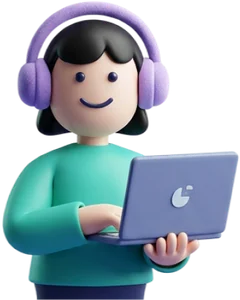
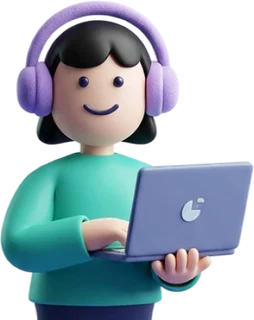
Prepare the review round: plan, source build, character crops
- Plan: reel in the hero, a 3 x 3 grid of the latest productions with
  an overlay, departments before founders.
- prototype/src/build.py builds prototype/index.html from sources in
  prototype/src (the sources follow in the next commit) and picks up
  the reel and project media from prototype/media.
- Department characters are cropped flat at the waist so they can sit
  behind the department cards.

Claude-Session: https://claude.ai/code/session_01TX8yyNLqken41SDcs6H1nx

diff --git a/prototype/src/build.py b/prototype/src/build.py
@@ -1,0 +1,187 @@
+"""Build the Humanverse v3 prototype into a single HTML page.
+
+Edit the sources in this folder, then run from the repository root:
+
+    python3 prototype/src/build.py
+
+That writes prototype/index.html (Polish by default, English in the language switch).
+
+- body.html: page markup with the English copy; every translatable element has a data-i18n key.
+- pl.json: Polish for the same keys. extra-en.json: English strings used only from JavaScript.
+- work.json: the nine projects in the "Work" grid, one entry per project, in display order.
+- prototype/media/: reel.mp4, and per project work/<id>-loop.mp4 (or .gif) and work/<id>-film.mp4.
+  Missing files show a placeholder.
+- Photos of people are not in the repository. Pass --photos with a JSON file that maps photo keys
+  (team, kujawski, ...) to image files, together with --out pointing outside the repository.
+"""
+import argparse, html, json, os, re, shutil, sys
+
+SRC = os.path.dirname(os.path.abspath(__file__))
+PROTO = os.path.dirname(SRC)
+ASSETS = os.path.join(SRC, 'assets')
+
+ap = argparse.ArgumentParser(description=__doc__.split('\n')[0])
+ap.add_argument('--out', default=PROTO, help='output folder (default: prototype/)')
+ap.add_argument('--photos', help='JSON file that maps photo keys to image files')
+ap.add_argument('--fragment', action='store_true',
+                help='also write humanverse-v3.html without html/head/body tags, and files.json')
+args = ap.parse_args()
+OUT = os.path.abspath(args.out)
+IN_REPO = OUT == PROTO
+if args.photos and IN_REPO:
+    sys.exit('Photos of people stay out of the repository: pass --out with a folder outside it.')
+if not IN_REPO:
+    for sub in ('img', 'media'):
+        shutil.rmtree(os.path.join(OUT, sub), ignore_errors=True)
+os.makedirs(os.path.join(OUT, 'img'), exist_ok=True)
+
+read = lambda p: open(os.path.join(SRC, p), encoding='utf-8').read()
+body = read('body.html')
+css = read('styles.css')
+engine = read('engine.js')
+app = read('app.js')
+work_js = read('work.js')
+work = json.loads(read('work.json'))
+extra_en = json.loads(read('extra-en.json'))
+
+used_files = {}
+def ship(rel):
+    """Return rel if prototype/<rel> exists, copying it into the output when building elsewhere."""
+    src = os.path.join(PROTO, rel)
+    if not os.path.exists(src):
+        return ''
+    dst = os.path.join(OUT, rel)
+    if not IN_REPO:
+        os.makedirs(os.path.dirname(dst), exist_ok=True)
+        shutil.copy(src, dst)
+    used_files[rel] = dst
+    return rel
+
+# ---- 1. reel and work grid from work.json ----
+reel = ship(work['reel'])
+body = body.replace('%%REEL%%', (f'<video class="reel-video" src="{reel}" muted autoplay loop playsinline preload="auto" '
+                                 'data-i18n-attr="aria-label:reel.aria" aria-label="Humanverse showreel"></video>') if reel else '', 1)
+esc = lambda t: html.escape(t, quote=False)
+items, work_pl = [], {}
+for pr in work['projects']:
+    i = pr['id']
+    loop = next((r for r in (f'media/work/{i}-loop.{e}' for e in ('mp4', 'webm', 'gif')) if ship(r)), '')
+    film = next((r for r in (f'media/work/{i}-film.{e}' for e in ('mp4', 'webm')) if ship(r)), '')
+    if loop.endswith('.gif'):
+        m = f'<img class="work-loop" src="{loop}" alt="" loading="lazy" decoding="async">'
+    elif loop:
+        m = f'<video class="work-loop" src="{loop}" muted autoplay loop playsinline preload="metadata" aria-hidden="true" tabindex="-1"></video>'
+    else:
+        m = f'<span class="work-slate" aria-hidden="true"><b>{i}</b><small data-i18n="work.slate">Loop · 3 s</small></span>'
+    items.append(f'''      <li class="work-item">
+        <button class="work-tile" type="button" aria-haspopup="dialog" data-id="{i}" data-loop="{loop}" data-film="{film}">
+          <span class="work-media">{m}</span>
+          <span class="work-cap"><span class="work-title" data-i18n="work.{i}.t">{esc(pr['title']['en'])}</span><span class="work-sub" data-i18n="work.{i}.s">{esc(pr['sub']['en'])}</span></span>
+        </button>
+        <p class="work-desc" data-i18n="work.{i}.d" hidden>{esc(pr['desc']['en'])}</p>
+      </li>''')
+    work_pl.update({f'work.{i}.t': esc(pr['title']['pl']), f'work.{i}.s': esc(pr['sub']['pl']), f'work.{i}.d': esc(pr['desc']['pl'])})
+body = body.replace('%%WORK_GRID%%', '<ul class="work-grid" role="list">\n' + '\n'.join(items) + '\n      </ul>', 1)
+
+# ---- 2. English strings straight from the markup ----
+EL = re.compile(r'<(?P<tag>[a-z0-9]+)(?P<attrs>[^>]*?\sdata-i18n="(?P<key>[^"]+)"[^>]*)>(?P<inner>.*?)</(?P=tag)>', re.S)
+ATTR = re.compile(r'<[a-z0-9]+[^>]*\sdata-i18n-attr="(?P<spec>[^"]+)"[^>]*>', re.S)
+en = {}
+for m in EL.finditer(body):
+    k, v = m.group('key'), m.group('inner').strip()
+    if k in en and en[k] != v:
+        sys.exit(f'duplicate key with different text: {k}')
+    en[k] = v
+for m in ATTR.finditer(body):
+    tag = m.group(0)
+    for pair in m.group('spec').split(';'):
+        attr, key = pair.split(':', 1)
+        am = re.search(r'\s' + re.escape(attr) + r'="([^"]*)"', tag)
+        if am and key not in en:
+            en[key] = am.group(1)
+for k, v in extra_en.items():
+    en.setdefault(k, v)
+pl = json.loads(read('pl.json'))
+pl.update(work_pl)
+missing = [k for k in en if k not in pl]
+print('strings:', len(en), '| missing in pl.json:', missing[:20], len(missing))
+
+# ---- 3. inline the default language (Polish when complete) ----
+default = 'en' if missing else 'pl'
+D = pl if default == 'pl' else en
+def sub_el(m):
+    v = D.get(m.group('key'))
+    return m.group(0) if v is None else '<' + m.group('tag') + m.group('attrs') + '>' + v + '</' + m.group('tag') + '>'
+page_body = EL.sub(sub_el, body)
+def sub_attr(m):
+    tag = m.group(0)
+    for pair in m.group('spec').split(';'):
+        attr, key = pair.split(':', 1)
+        if key in D:
+            tag = re.sub(r'(\s' + re.escape(attr) + r'=")[^"]*(")', lambda mm: mm.group(1) + D[key].replace('"', '&quot;') + mm.group(2), tag)
+    return tag
+page_body = ATTR.sub(sub_attr, page_body)
+
+# ---- 4. logos ----
+uid = [0]
+def svg(name, cls='', fills=None, label=None):
+    s = open(os.path.join(ASSETS, name), encoding='utf-8').read().strip()
+    uid[0] += 1
+    s = re.sub(r'clip0_[0-9_]+', f'clip{uid[0]}', s)
+    s = re.sub(r'\s(width|height)="[0-9.]+"', '', s, count=2)
+    for a, b in (fills or {}).items():
+        s = s.replace(f'fill="{a}"', f'fill="{b}"')
+    attrs = (f' class="{cls}"' if cls else '') + (f' role="img" aria-label="{label}"' if label else ' aria-hidden="true" focusable="false"')
+    return s.replace('<svg', '<svg' + attrs, 1)
+
+hv_nav = svg('logo-humanverse.svg', 'wordmark', {'white': 'currentColor'}, 'Humanverse')
+page_body = page_body.replace('<a class="brand" href="#top" aria-label="Humanverse">%%WORDMARK%%</a>', '<a class="brand" href="#top">' + hv_nav + '</a>', 1)
+while '%%WORDMARK%%' in page_body:
+    page_body = page_body.replace('%%WORDMARK%%', svg('logo-humanverse.svg'), 1)
+page_body = page_body.replace('%%JEDEN%%', svg('logo-jeden.svg', 'brand-logo', {'white': '#0D0C12'}, 'jeden.ai'))
+page_body = page_body.replace('%%ALTERCAST%%', svg('logo-altercast-big.svg', 'ac-logo', None, 'AlterCast'))
+page_body = page_body.replace('%%HVLOGO%%', svg('logo-humanverse.svg', '', None, 'Humanverse'))
+page_body = page_body.replace('%%JEDEN_FOOT%%', svg('logo-jeden.svg', '', None, 'jeden.ai'))
+
+# ---- 5. photos and characters ----
+photos = {}
+if args.photos:
+    base = os.path.dirname(os.path.abspath(args.photos))
+    photos = {k: os.path.join(base, v) for k, v in json.load(open(args.photos, encoding='utf-8')).items()}
+NAMES = {'kujawski': 'Krzysztof Kujawski', 'mazurkiewicz': 'Paweł Mazurkiewicz', 'czajkowski': 'Jarosław Czajkowski',
+         'jonski': 'Daniel Joński', 'tyszkiewicz': 'Jan Tyszkiewicz', 'domagala': 'Monika Domagała-Szmidt',
+         'dluzniewska': 'Paulina Dłużniewska', 'polanska': 'Iwona Polańska', 'soszynski': 'Piotr Soszyński',
+         'trosinska': 'Ela Trosińska', 'grabarczyk': 'Bartosz Grabarczyk'}
+def img_tag(key):
+    src = photos.get(key)
+    if not src or not os.path.exists(src):
+        return ''
+    dst = f'img/{key}{os.path.splitext(src)[1]}'
+    shutil.copy(src, os.path.join(OUT, dst))
+    used_files[dst] = os.path.join(OUT, dst)
+    alt = D.get('team.alt', 'The Humanverse team') if key == 'team' else NAMES.get(key, '')
+    return f'<img src="{dst}" alt="{alt}" loading="lazy" decoding="async">'
+page_body = re.sub(r'%%IMG:([a-z-]+)%%', lambda m: img_tag(m.group(1)), page_body)
+def char_tag(key):
+    rel = ship(f'img/char-{key}.webp')
+    return f'<img src="{rel}" alt="" loading="lazy" decoding="async">' if rel else ''
+page_body = re.sub(r'%%CHAR:([a-z-]+)%%', lambda m: char_tag(m.group(1)), page_body)
+assert '%%' not in page_body, re.findall(r'%%[^%]+%%', page_body)
+
+# ---- 6. assemble ----
+i18n = {'pl': pl, 'en': en}
+head = ('<title>Humanverse v3</title>\n'
+        '<link rel="preconnect" href="https://fonts.googleapis.com">\n'
+        '<link rel="preconnect" href="https://fonts.gstatic.com" crossorigin>\n'
+        '<link rel="stylesheet" href="https://fonts.googleapis.com/css2?family=Barlow+Condensed:ital,wght@0,300;0,500;0,700;0,800;1,300&family=Space+Grotesk:wght@400;500;700&display=swap">\n'
+        '<style>\n' + css + '</style>\n')
+scripts = ('<script>window.HV_I18N = ' + json.dumps(i18n, ensure_ascii=False).replace('</', '<\\/') + ';</script>\n'
+           '<script>\n' + app + '</script>\n<script>\n' + work_js + '</script>\n<script>\n' + engine + '</script>\n')
+standalone = ('<!doctype html>\n<html lang="' + default + '">\n<head>\n<meta charset="utf-8">\n'
+              '<meta name="viewport" content="width=device-width, initial-scale=1, viewport-fit=cover">\n' + head +
+              '</head>\n<body>\n' + page_body + '\n' + scripts + '</body>\n</html>\n')
+open(os.path.join(OUT, 'index.html'), 'w', encoding='utf-8').write(standalone)
+if args.fragment:
+    open(os.path.join(OUT, 'humanverse-v3.html'), 'w', encoding='utf-8').write(head + page_body + '\n' + scripts)
+    json.dump({k: used_files[k] for k in sorted(used_files)}, open(os.path.join(OUT, 'files.json'), 'w'), indent=1)
+print('default language:', default, '| page bytes:', len(standalone), '| files:', len(used_files), '->', OUT)

diff --git a/docs/PLAN.md b/docs/PLAN.md
@@ -18,17 +18,18 @@ Prototyp: [`prototype/index.html`](../prototype/index.html) (otwórz w przegląd
 
 | # | Sekcja | Tło | Siatka |
 | --- | --- | --- | --- |
-| 0 | Hero: „Humanizujemy AI.” + tagline z decku + 3 liczby | fiolet | tkanina (gnie się do kursora, fala po kliknięciu) |
-| 1 | Pozycjonowanie („Not just…”) + trzy marki | zieleń | spokojna |
-| 2 | The Team: zdjęcie zespołu, 3 → 30, „rośliśmy z klientami” | fiolet | tkanina |
-| 3 | Kreacja: „Idea first. Then the tool.” / Inside every production | biel + pasek z logo | kadry storyboardu |
-| 4 | Produkcja + R&D | fiolet | proces produkcji (8 kroków) |
-| 5 | jeden.ai | biel + pasek | pipeline węzłów |
-| 6 | Jak myślimy (podejście do biznesu) | zieleń | moduły |
-| 7 | Jak jesteśmy zbudowani: założyciele, działy (New Business, Client Service, Creative, Production, R&D), kariera | biel + pasek | moduły |
-| 8 | Built on trust: etyka, AI Act | fiolet | spokojna |
-| 9 | AlterCast (osobna spółka) | żółty + biel | twarz 3D patrząca za kursorem |
-| 10 | Kontakt: „Zacznijmy od jednej kampanii” | fiolet | linie składają się w znak ┐H |
+| 0 | Hero: „Humanizujemy AI.” + tagline z decku, pod przyciskami reel od krawędzi do krawędzi (autoplay, bez dźwięku, w pętli, bez playera) | fiolet | tkanina (gnie się do kursora, fala po kliknięciu) |
+| 1 | Realizacje: siatka 3 × 3 z dziewięcioma ostatnimi produkcjami (pętle 3 s lub GIF). Kliknięcie otwiera czarną zaokrągloną nakładkę z filmem na 80% szerokości, dużym tytułem, podtytułem i opisem | biel + pasek | moduły |
+| 2 | Pozycjonowanie („Not just…”) + trzy marki | zieleń | spokojna |
+| 3 | The Team: zdjęcie zespołu, 3 → 30, „rośliśmy z klientami” | fiolet | tkanina |
+| 4 | Kreacja: „Idea first. Then the tool.” / Inside every production | biel + pasek z logo | kadry storyboardu |
+| 5 | Produkcja + R&D | fiolet | proces produkcji (8 kroków) |
+| 6 | jeden.ai | biel + pasek | pipeline węzłów |
+| 7 | Jak myślimy (podejście do biznesu) | zieleń | moduły |
+| 8 | Jak jesteśmy zbudowani: najpierw działy (New Business, Client Service, Creative, Production, R&D) z postaciami 3D schowanymi za kartami i ludźmi w kółkach, potem założyciele, na końcu kariera | biel + pasek | moduły |
+| 9 | Built on trust: etyka, AI Act | fiolet | spokojna |
+| 10 | AlterCast (osobna spółka) | żółty + biel | twarz 3D patrząca za kursorem |
+| 11 | Kontakt: „Zacznijmy od jednej kampanii” | fiolet | linie składają się w znak ┐H |
 
 ## 3. System wizualny (z decku)
 
@@ -45,6 +46,8 @@ Na telefonie i na tablecie w pionie tekst zajmuje całą szerokość, więc siat
 ## 5. Technologia
 
 - Produkcyjnie: Next.js na Vercelu, CMS na case studies, zespół i aktualności, PL/EN.
+- Realizacje w CMS: jeden wpis na projekt z polami tytuł, podtytuł (klient · format · rok), opis, pętla 3 s (MP4 bez dźwięku albo GIF), film, kolejność. Na stronie głównej jest dziewięć pierwszych wpisów.
+- Reel: plik MP4 (H.264, 1080p, bez dźwięku, najlepiej poniżej 15 MB) albo strumień z Vimeo lub Mux. Przy „ogranicz ruch” reel i pętle stoją na pierwszej klatce.
 - Siatka: WebGL w wersji produkcyjnej. Prototyp to Canvas 2D bez bibliotek, 60 kl./s; przy „ogranicz ruch” siatka jest statyczna.
 
 ## 6. Otwarte kwestie

diff --git a/README.md b/README.md
@@ -3,5 +3,18 @@
 Nowa strona Humanverse: kompletny pakiet kreatywny AI dla marketingu (kreacja w każdej produkcji, produkcja z R&D, jeden.ai). AlterCast pokazujemy jako osobną spółkę, której technologię rozwija Humanverse. Typografia i kolory pochodzą z decku, klasyczny logotyp, a w tle jest interaktywna siatka.
 
 - [`docs/PLAN.md`](docs/PLAN.md): plan strony, sekcje, system wizualny, przejścia kolorów, technologia, otwarte kwestie.
-- [`prototype/index.html`](prototype/index.html): klikalny koncept w jednym pliku (PL/EN). Otwórz go w przeglądarce, poruszaj kursorem i przewijaj. Postacie 3D działów są w `prototype/img/`. Zdjęć zespołu nie ma w repozytorium, więc w ich miejscu są gradienty.
+- [`prototype/index.html`](prototype/index.html): klikalny koncept w jednym pliku (PL/EN). Otwórz go w przeglądarce, poruszaj kursorem i przewijaj. Zdjęć zespołu nie ma w repozytorium, więc w ich miejscu są gradienty.
+- [`prototype/src/`](prototype/src/): źródła prototypu. Po zmianach uruchom `python3 prototype/src/build.py`, a skrypt zbuduje `prototype/index.html` od nowa.
 - [`brand/`](brand/): logotyp Humanverse i logo jeden.ai wyeksportowane z decku w Figmie oraz znak ┐H.
+
+## Reel i realizacje
+
+Pliki wideo wrzuć do `prototype/media/`:
+
+| Plik | Gdzie się pokazuje |
+| --- | --- |
+| `reel.mp4` | reel w hero, od krawędzi do krawędzi, autoplay bez dźwięku |
+| `work/01-loop.mp4` (albo `01-loop.gif`) | kafelek projektu 01 w siatce realizacji, pętla około 3 s |
+| `work/01-film.mp4` | film w nakładce po kliknięciu kafelka 01 |
+
+Projekty mają numery od `01` do `09`. Tytuł, podtytuł (klient · format · rok) i opis każdego projektu, po polsku i po angielsku, edytujesz w [`prototype/src/work.json`](prototype/src/work.json). Gdy pliku wideo brakuje, w jego miejscu jest plansza zastępcza. Wideo do strony warto skompresować (H.264, 1080p dla reelu, 720p dla pętli, bez dźwięku w pętlach).
